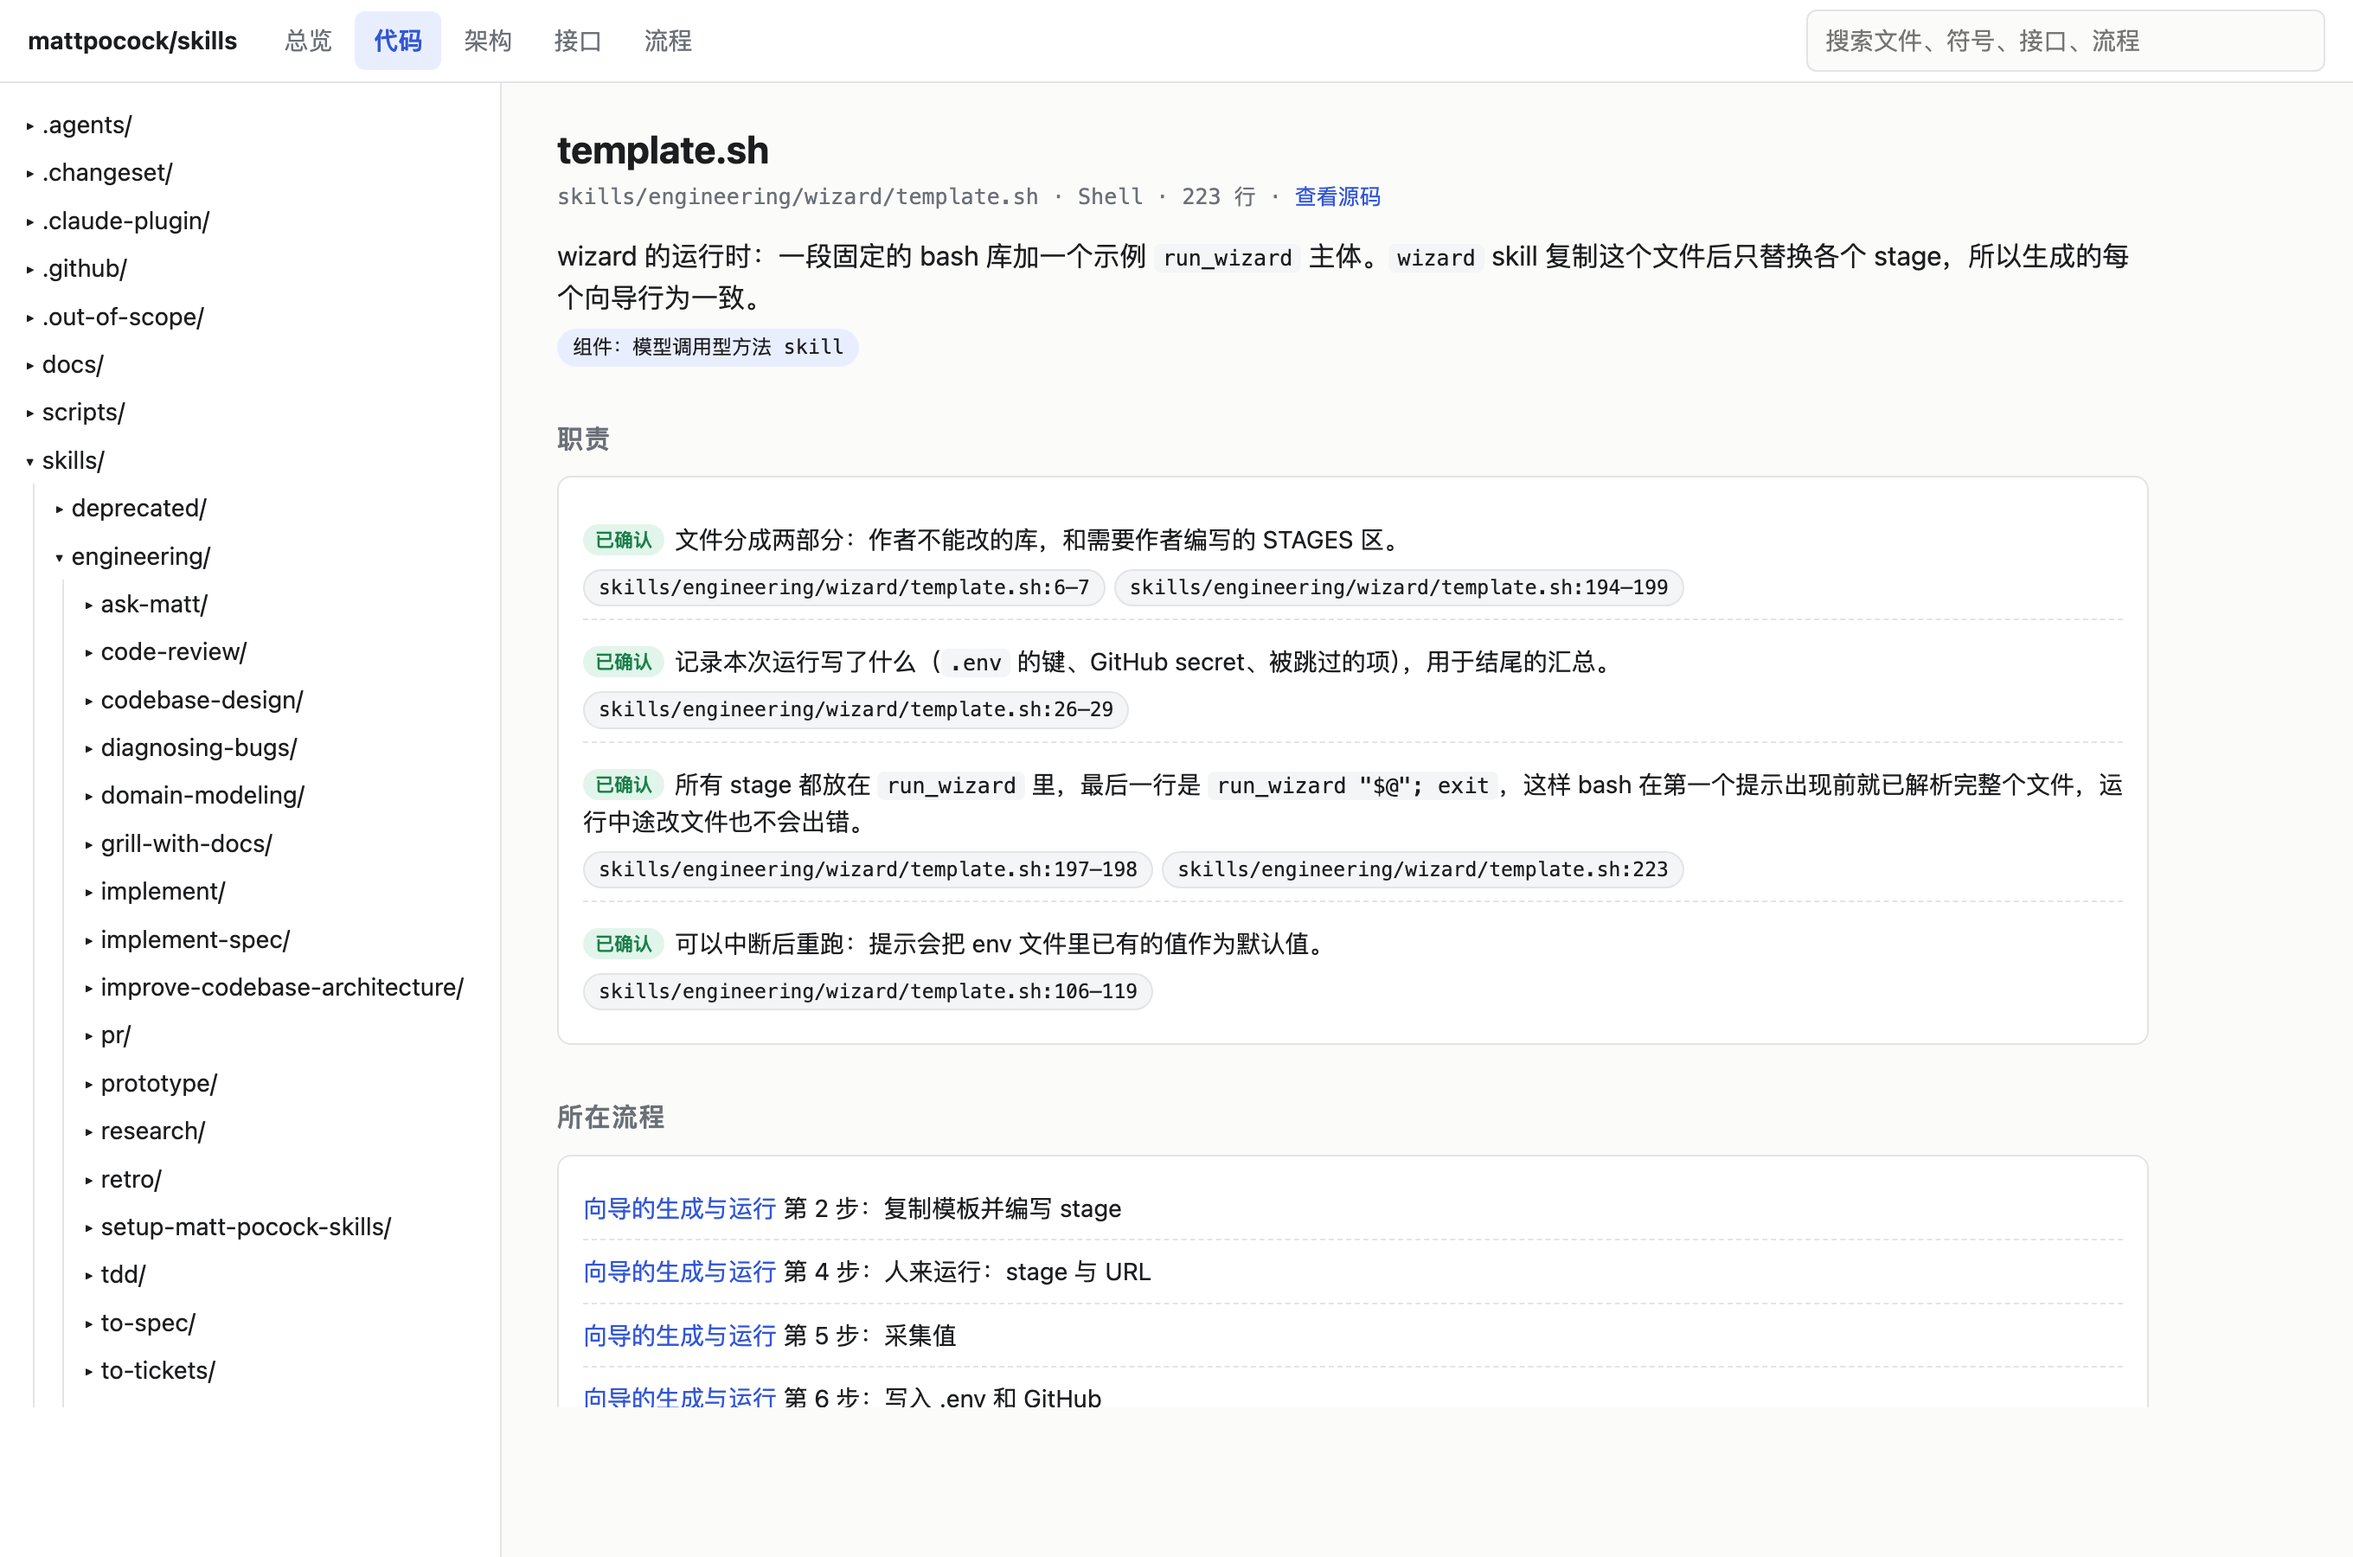
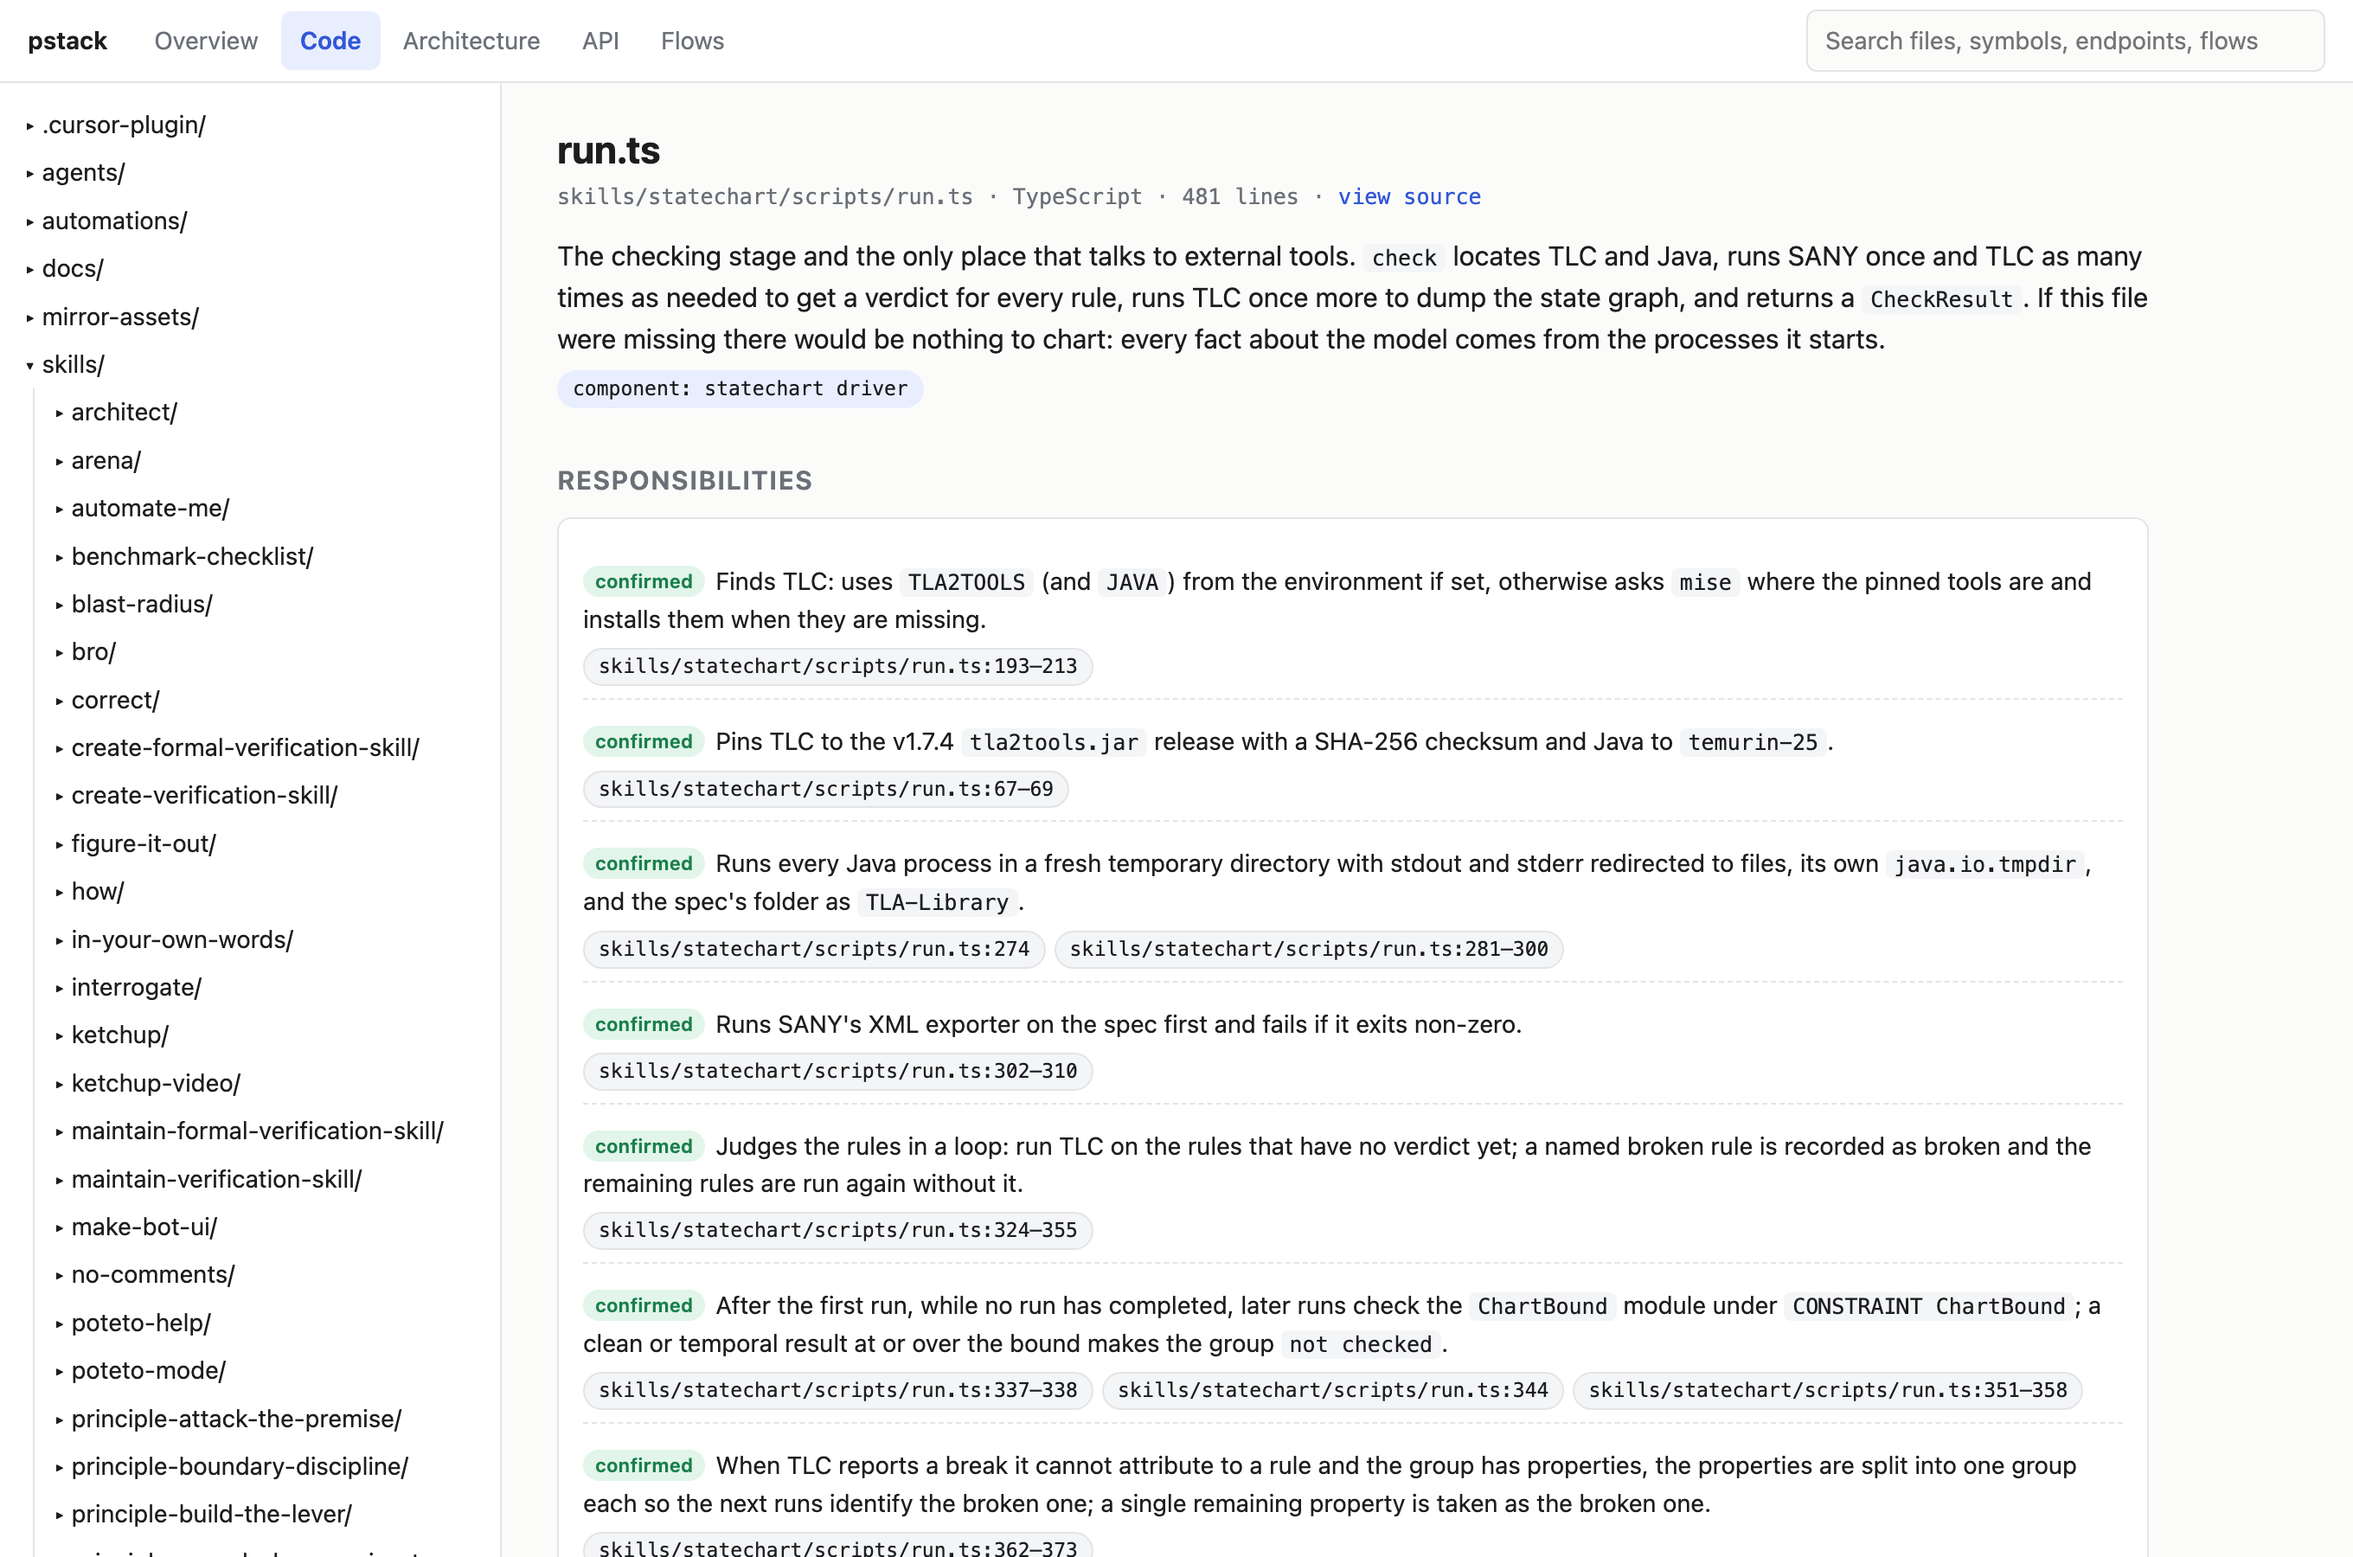
Replace screenshots with English output from a larger example
The flow and code views now come from running the skill on pstack with
English output, which matches the English README.

diff --git a/README.md b/README.md
@@ -8,7 +8,7 @@ It is not built to answer "what does this file do". It is built for the hardest 
 
 ![Flow view: one operation broken into steps, each with source references and a certainty badge](docs/images/flow.png)
 
-<sub>The screenshots come from running the skill on the [mattpocock/skills](https://github.com/mattpocock/skills) repository, with the default Chinese output.</sub>
+<sub>The screenshots come from running the skill on [pstack](https://github.com/backnotprop/pstack) with English output.</sub>
 
 ## Why this exists
 

diff --git a/README.zh-CN.md b/README.zh-CN.md
@@ -8,7 +8,7 @@
 
 ![流程视图：一个操作被拆成若干步骤，每一步都带着源码引用和确定度标记](docs/images/flow.png)
 
-<sub>截图是对 [mattpocock/skills](https://github.com/mattpocock/skills) 仓库运行本 skill 的结果。</sub>
+<sub>截图是对 [pstack](https://github.com/backnotprop/pstack) 仓库运行本 skill、选择英文输出的结果。</sub>
 
 ## 为什么要做这个
 
